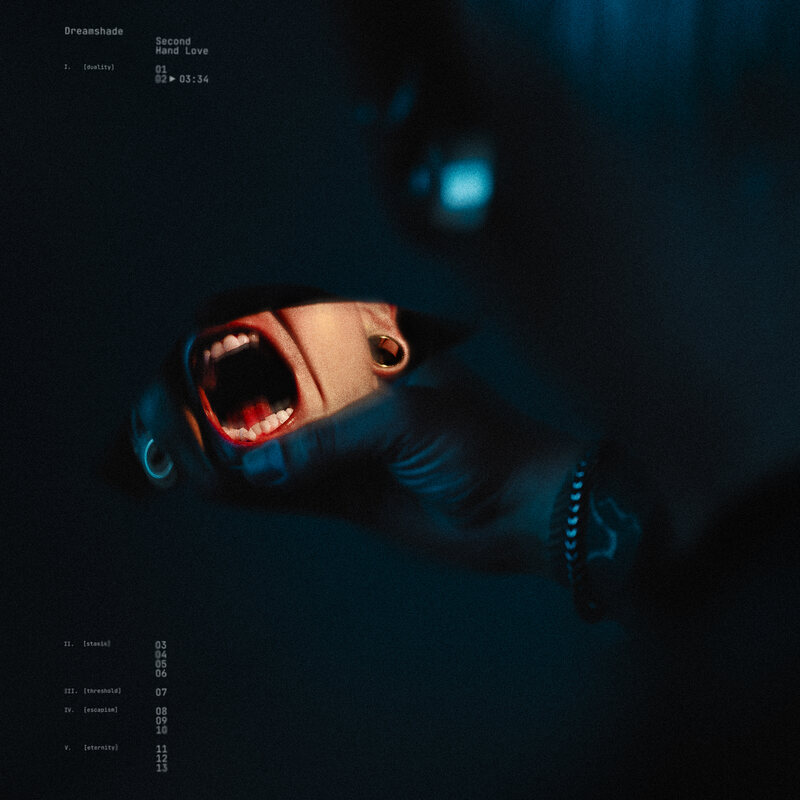
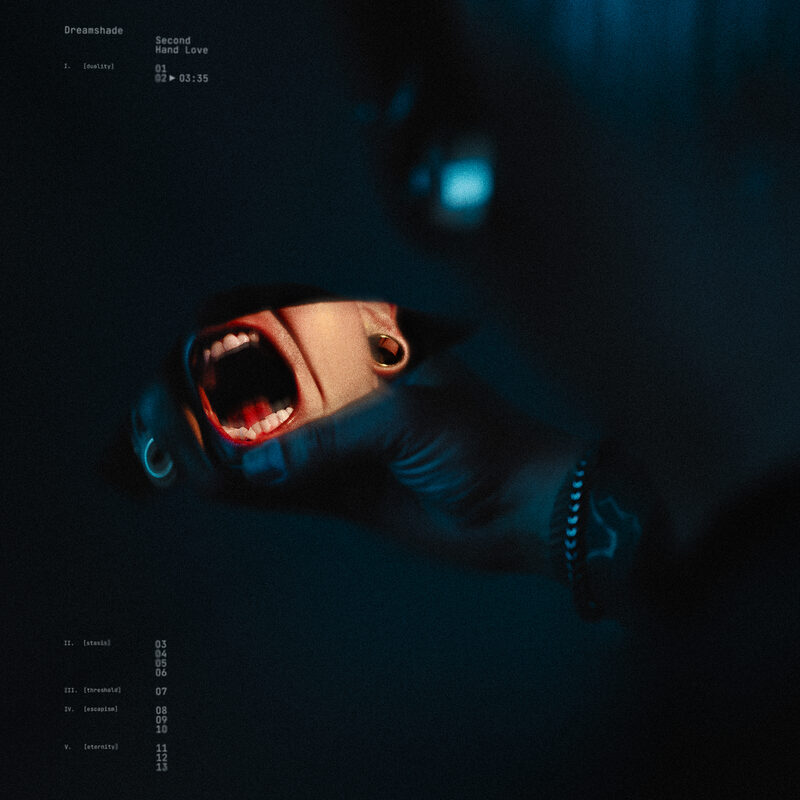
test3: SHL cover with the new duration (03:35), also in the album map
Claude-Session: https://claude.ai/code/session_014amxk9zGYBrqbwEVtXWmqQ

diff --git a/test3/index.html b/test3/index.html
@@ -76,7 +76,7 @@
         </div>
 
         <div class="singles">
-          <div><div class="ph media single-cover"><img src="assets/photos/shl-cover.jpg" alt="Second Hand Love – single cover" width="800" height="800"></div><p>Second Hand Love</p></div>
+          <div><div class="ph media single-cover"><img src="assets/photos/shl-cover.jpg?v=202611071332" alt="Second Hand Love – single cover" width="800" height="800"></div><p>Second Hand Love</p></div>
           <div><div class="ph">Single 2</div></div>
           <div><div class="ph">Single 3</div></div>
         </div>
@@ -112,7 +112,7 @@
               <p class="part-name"><span>I.</span>[duality]</p>
               <ol>
                 <li><span class="n">01</span></li>
-                <li class="out"><span class="n">02</span><span class="play" aria-hidden="true">▶</span><span class="dur">03:34</span><span class="t">Second Hand Love</span></li>
+                <li class="out"><span class="n">02</span><span class="play" aria-hidden="true">▶</span><span class="dur">03:35</span><span class="t">Second Hand Love</span></li>
               </ol>
             </div>
             <div class="part">
